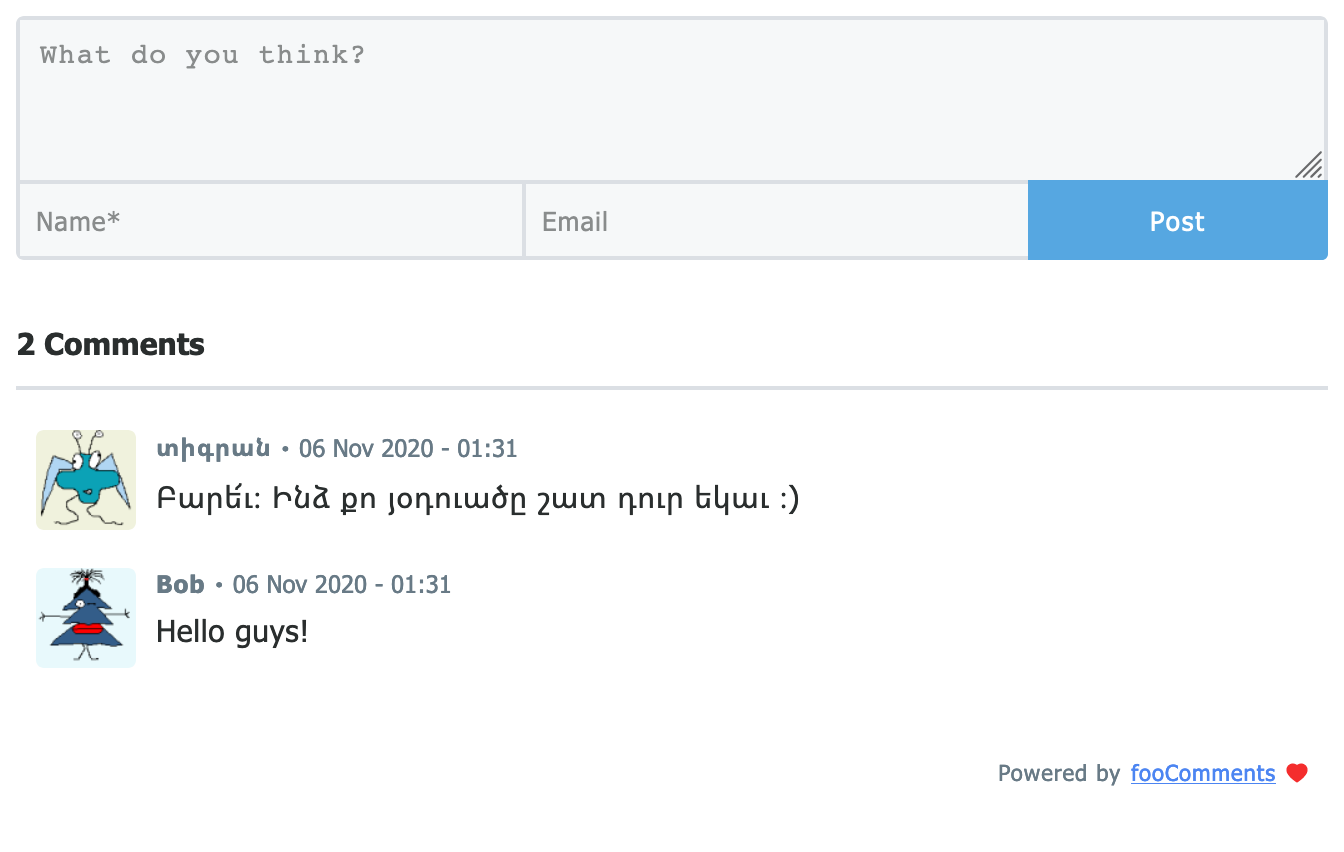
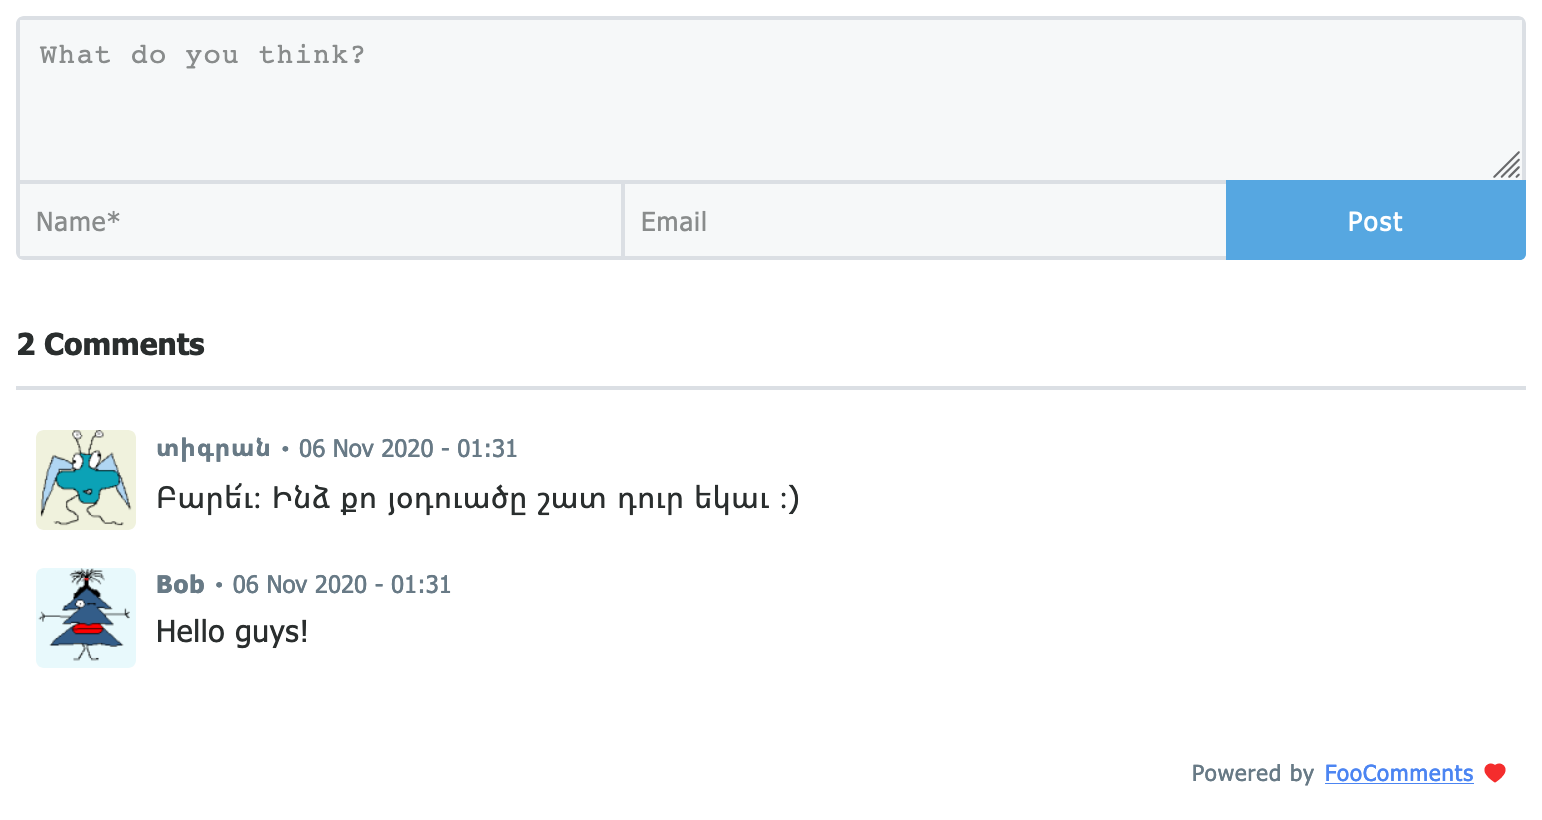
update widget name

diff --git a/index.html b/index.html
@@ -3,7 +3,7 @@
 <head>
   <meta charset="UTF-8">
   <meta name="viewport" content="width=device-width, initial-scale=1.0">
-  <title>foo-comments Widget</title>
+  <title>FooComments Widget</title>
 </head>
 <body>
   <div id="foo-comments" data-api-url="http://localhost:9547/api" data-theme="light" data-language="en"></div>

diff --git a/docs/index.html b/docs/index.html
@@ -3,7 +3,7 @@
 <head>
   <meta charset="UTF-8">
   <meta name="viewport" content="width=device-width, initial-scale=1.0">
-  <title>foo-comments Widget</title>
+  <title>FooComments Widget</title>
 </head>
 <body>
   <div id="foo-comments" data-api-url="http://localhost:9547/api" data-theme="light"></div>

diff --git a/src/components/Footer/index.js b/src/components/Footer/index.js
@@ -12,7 +12,7 @@ export default function Footer() {
         href="https://github.com/tigransimonyan/foo-comments-widget"
         target="_blanck"
       >
-        fooComments
+        FooComments
       </Link>
       <Heart />
     </Container>

diff --git a/README.md b/README.md
@@ -4,7 +4,7 @@
 | -------------------------------- | ------------------------------- | -------------------------------- |
 | ![screenshot](/images/light.png) | ![screenshot](/images/dark.png) | ![screenshot](/images/black.png) |
 
-Place the following code where you'd like foo-comments to load:
+Place the following code where you'd like FooComments to load:
 
 ```html
 <div
